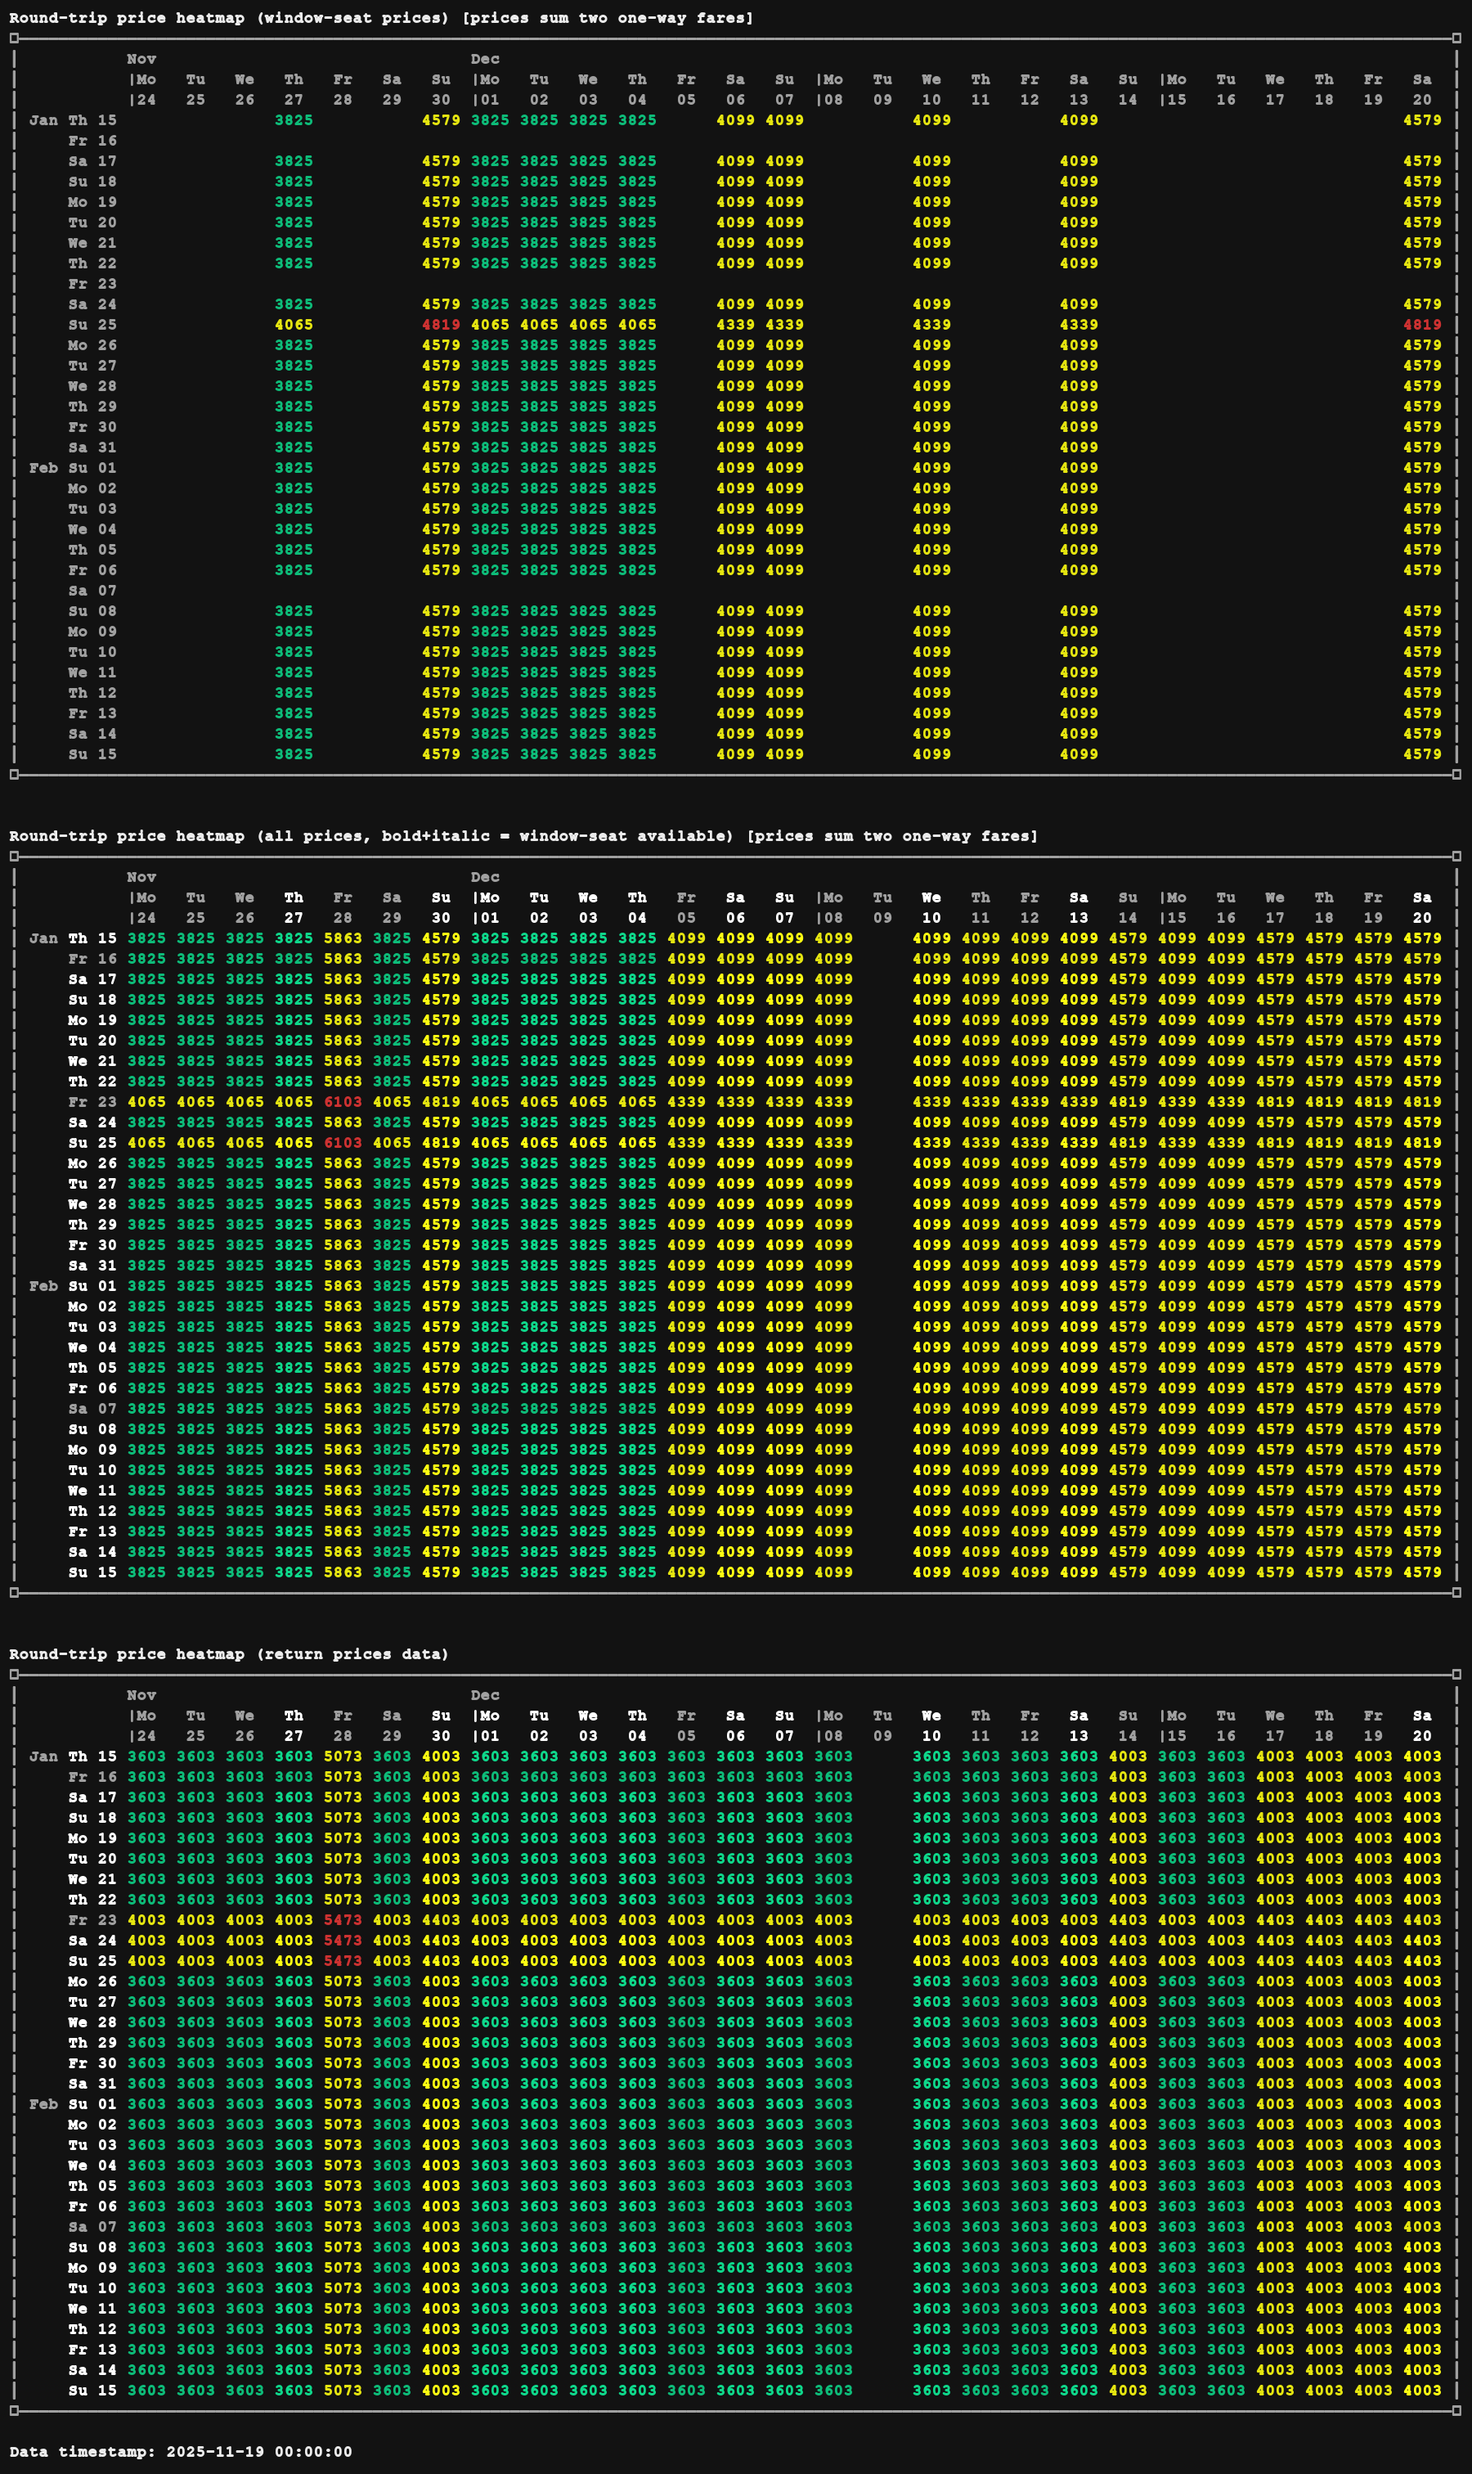
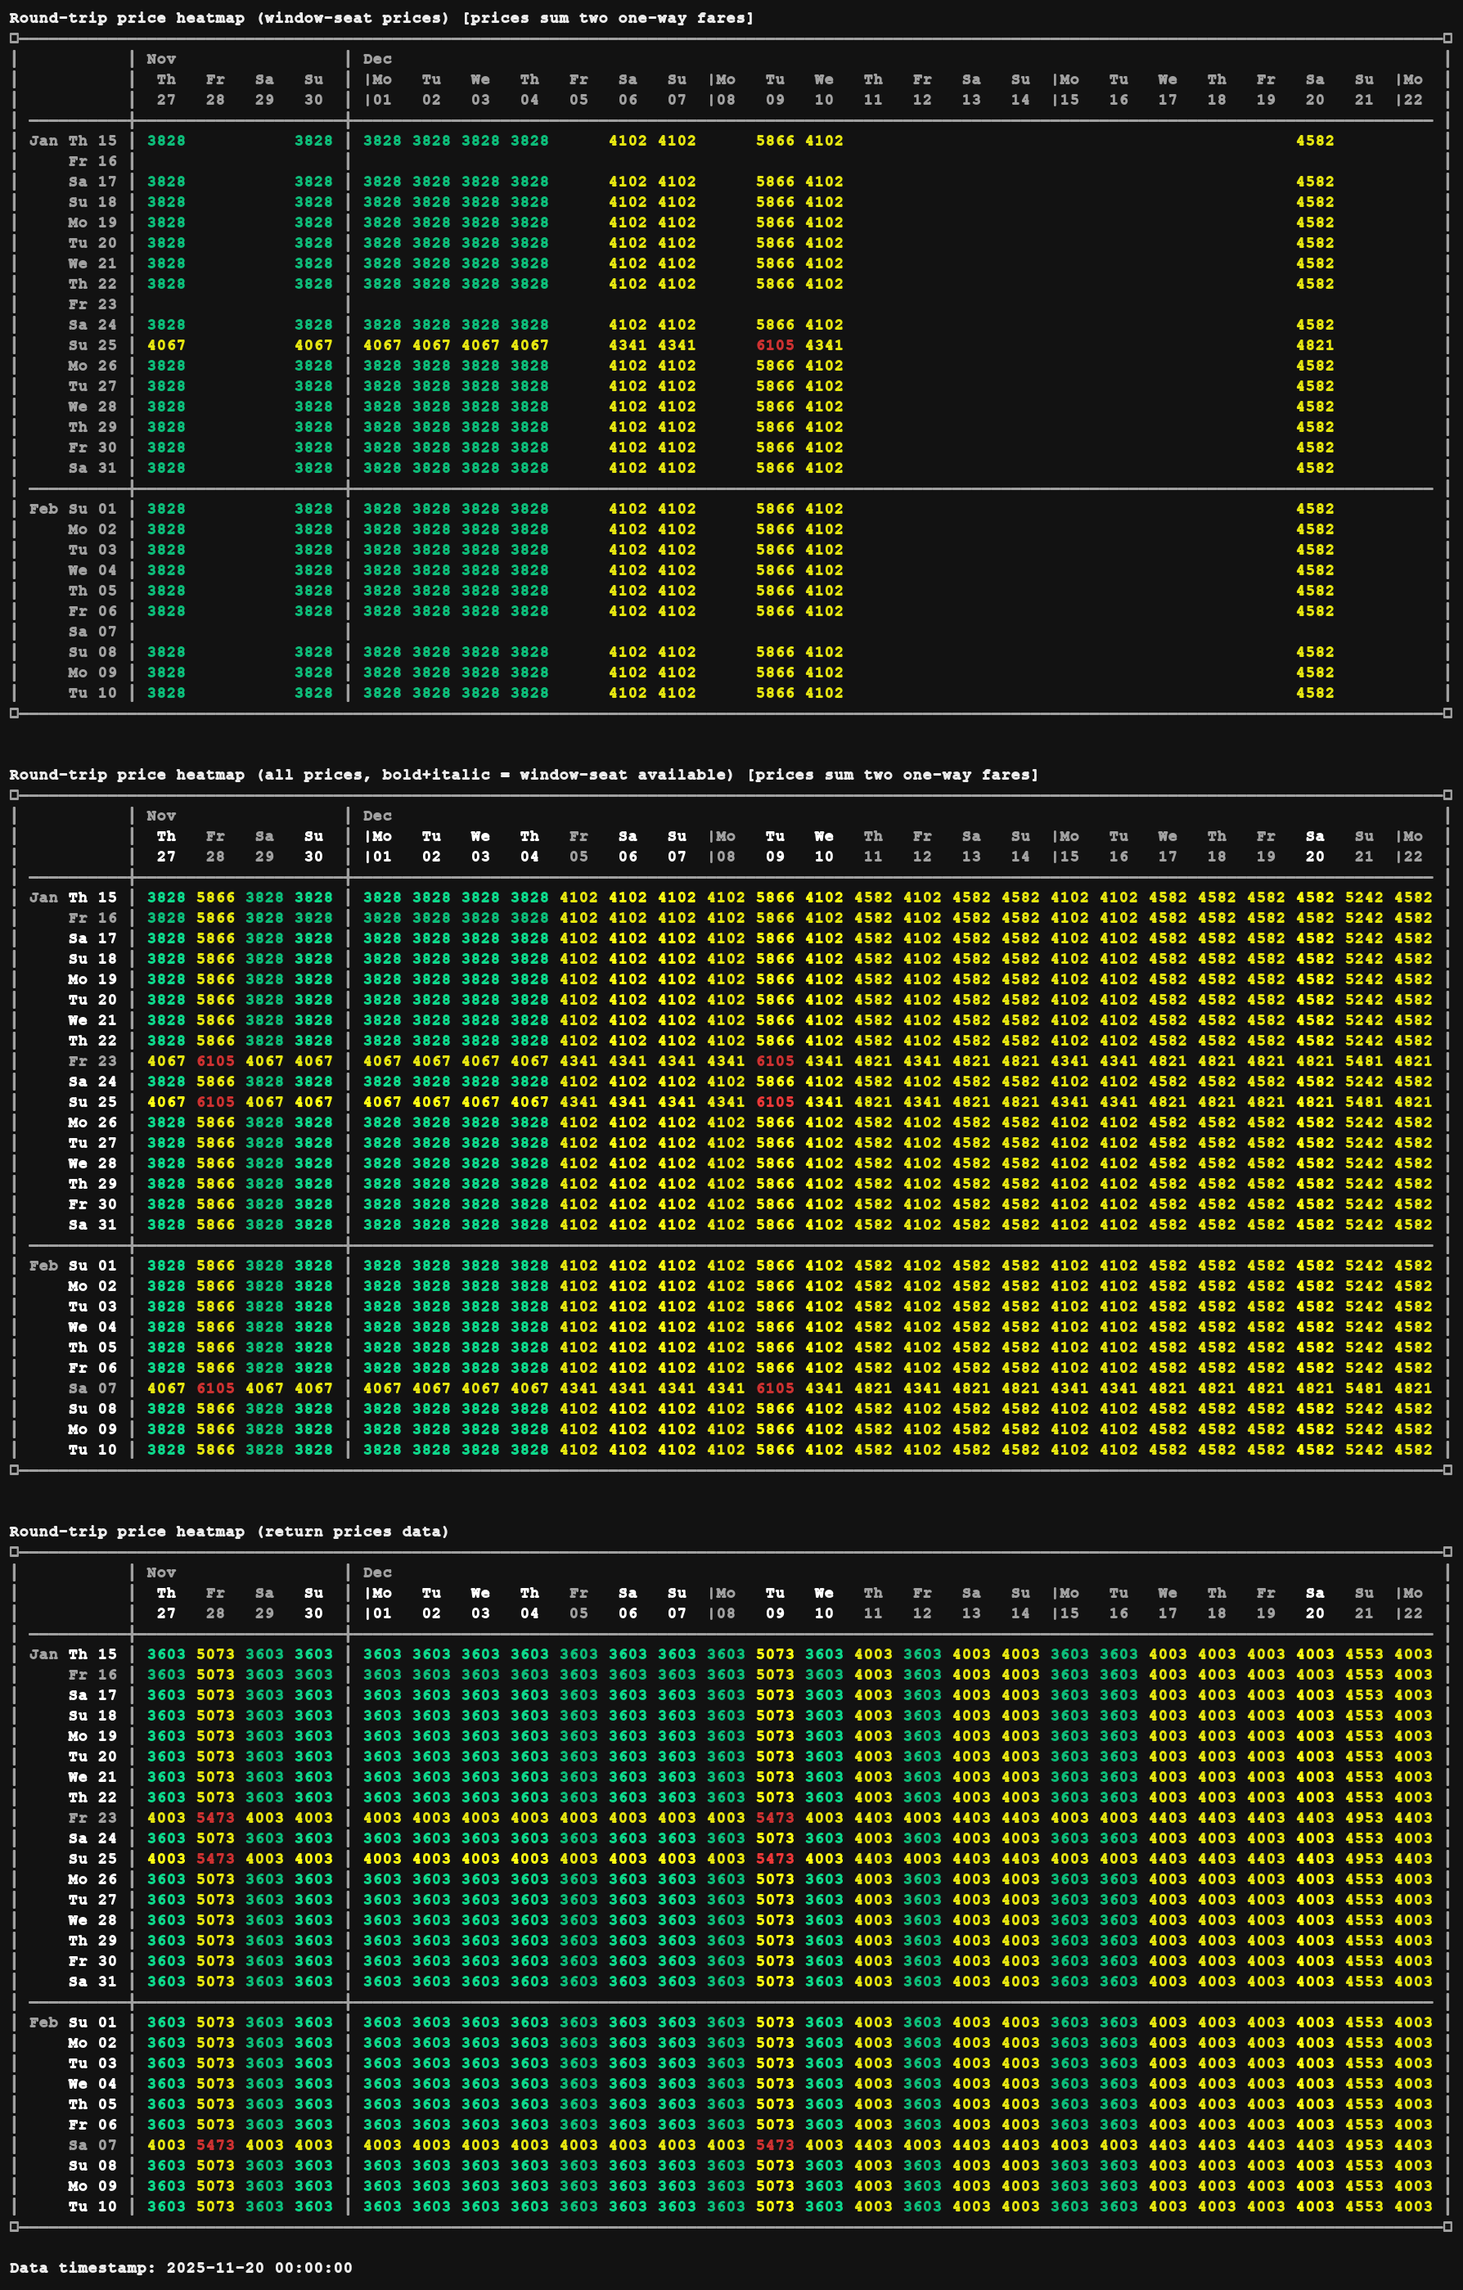
optimize output renderings

Changed region(s): [[0.0, 0.0, 0.9843, 0.9946]]

diff --git a/flight_search.py b/flight_search.py
@@ -41,6 +41,7 @@ from config import (
     SEATMAP_OUTPUT_STYLE,
     SHOW_SEATMAP_PRICE,
     STATIC_LABELS,
+    HEATMAP_HEADER_COLOR,
     TRAVEL_WINDOWS,
 )
 from colors import apply as apply_color, resolve as resolve_color, ANSI_RESET as COLORS_ANSI_RESET
@@ -1064,6 +1065,14 @@ def format_roundtrip_price_heatmap(
         else:
             column_months.append('')
 
+    column_split_indices: set[int] = set()
+    previous_column_month: int | None = None
+    for idx, entry in enumerate(outbound_axis):
+        month_value = entry.date_obj.month
+        if previous_column_month is not None and month_value != previous_column_month:
+            column_split_indices.add(idx)
+        previous_column_month = month_value
+
     row_months: list[str] = []
     previous_row_month: str | None = None
     for entry in return_axis:
@@ -1073,6 +1082,14 @@ def format_roundtrip_price_heatmap(
             previous_row_month = month_str
         else:
             row_months.append('')
+
+    row_split_indices: set[int] = set()
+    previous_row_month_value: int | None = None
+    for idx, entry in enumerate(return_axis):
+        month_value = entry.date_obj.month
+        if previous_row_month_value is not None and month_value != previous_row_month_value:
+            row_split_indices.add(idx)
+        previous_row_month_value = month_value
 
     cell_width_candidates = [display_width(cell) for row in rendered_rows for cell in row]
     cell_width_candidates.extend(display_width(label) for label in column_labels)
@@ -1095,20 +1112,48 @@ def format_roundtrip_price_heatmap(
     )
     suffix = "[prices sum two one-way fares]" if show_price_sum_suffix else ""
     title_line = f"{title or default_title} {suffix}".strip()
+
+    separator_color = HEATMAP_HEADER_COLOR
+
+    def paint_separator(text: str) -> str:
+        return apply_color(separator_color, text) if separator_color else text
+
+    row_header_separator = paint_separator('│')
+    vertical_separator = paint_separator('│')
+
+    def build_separator_line() -> str:
+        parts: list[str] = [
+            '─' * max(1, row_month_width),
+            '─' * max(1, row_label_width),
+            '┼',
+        ]
+        for col_idx in range(len(outbound_axis)):
+            if col_idx in column_split_indices:
+                parts.append('┼')
+            parts.append('─' * max(1, cell_width))
+        colored_parts = [paint_separator(part) for part in parts]
+        joiner = paint_separator('─')
+        return joiner.join(colored_parts)
+
     content_lines: list[str] = []
     if column_labels:
         left_padding_cells = [
             pad_to_width('', row_month_width),
             pad_to_width('', row_label_width),
+            row_header_separator,
         ]
         year_cells = left_padding_cells[:]
-        for axis_entry, label in zip(outbound_axis, column_months):
+        for idx, (axis_entry, label) in enumerate(zip(outbound_axis, column_months)):
+            if idx in column_split_indices:
+                year_cells.append(vertical_separator)
             styled_label = style_header_label(label, available=axis_entry.has_window, allow_highlight=False)
             year_cells.append(pad_to_width_centered(styled_label, cell_width))
         content_lines.append(' '.join(year_cells))
 
         weekday_cells = left_padding_cells[:]
-        for axis_entry, label in zip(outbound_axis, column_weekdays):
+        for idx, (axis_entry, label) in enumerate(zip(outbound_axis, column_weekdays)):
+            if idx in column_split_indices:
+                weekday_cells.append(vertical_separator)
             styled_label = style_header_label(label, available=axis_entry.has_window)
             if label.startswith('|'):
                 weekday_cells.append(pad_to_width(styled_label, cell_width))
@@ -1119,20 +1164,45 @@ def format_roundtrip_price_heatmap(
         date_cells = [
             pad_to_width(row_month_header, row_month_width),
             pad_to_width(row_label_header, row_label_width),
+            row_header_separator,
         ]
-        for axis_entry, label in zip(outbound_axis, column_labels):
+        for idx, (axis_entry, label) in enumerate(zip(outbound_axis, column_labels)):
+            if idx in column_split_indices:
+                date_cells.append(vertical_separator)
             styled_label = style_header_label(label, available=axis_entry.has_window)
             date_cells.append(pad_to_width_centered(styled_label, cell_width))
         content_lines.append(' '.join(date_cells))
+        content_lines.append(build_separator_line())
 
-    for axis_entry, month_label, label, row_cells in zip(return_axis, row_months, row_labels, rendered_rows):
+    horizontal_separator = paint_separator(pad_to_width('─' * max(1, row_month_width), row_month_width))
+    horizontal_label_separator = paint_separator(pad_to_width('─' * max(1, row_label_width), row_label_width))
+    data_separator_cell = paint_separator(pad_to_width('─' * max(1, cell_width), cell_width))
+    cross_separator = paint_separator('┼')
+
+    for row_idx, (axis_entry, month_label, label, row_cells) in enumerate(zip(return_axis, row_months, row_labels, rendered_rows)):
+        if row_idx in row_split_indices:
+            separator_line_parts = [
+                horizontal_separator,
+                horizontal_label_separator,
+                cross_separator,
+            ]
+            for col_idx in range(len(outbound_axis)):
+                if col_idx in column_split_indices:
+                    separator_line_parts.append(cross_separator)
+                separator_line_parts.append(data_separator_cell)
+            separator_joiner = paint_separator('─')
+            content_lines.append(separator_joiner.join(separator_line_parts))
         styled_month = style_header_label(month_label, available=axis_entry.has_window, allow_highlight=False)
         styled_label = style_header_label(label, available=axis_entry.has_window)
         row_line = [
             pad_to_width(styled_month, row_month_width),
             pad_to_width(styled_label, row_label_width),
+            row_header_separator,
         ]
-        row_line.extend(pad_to_width(cell, cell_width) for cell in row_cells)
+        for col_idx, cell in enumerate(row_cells):
+            if col_idx in column_split_indices:
+                row_line.append(vertical_separator)
+            row_line.append(pad_to_width(cell, cell_width))
         content_lines.append(' '.join(row_line))
 
     content_width = max((display_width(line) for line in content_lines), default=0)
@@ -1264,6 +1334,7 @@ def print_weekly_layout(
     if max_width == 0 or max_height == 0:
         return
 
+    week_row_width = (max_width * 7) + (2 * 6)
     sorted_dates = sorted(datetime.strptime(key, '%Y%m%d') for key in seatmaps_by_date.keys())
     start_date = sorted_dates[0] - timedelta(days=sorted_dates[0].weekday())
     end_date = sorted_dates[-1] + timedelta(days=(6 - sorted_dates[-1].weekday()))
@@ -1319,7 +1390,12 @@ def print_weekly_layout(
                     print(line)
                 print()
                 previous_route_label = route_label
-            print(apply_bold_italic(month_label))
+            styled_month = apply_bold_italic(month_label)
+            underline_width = max(week_row_width, display_width(styled_month))
+            underline = apply_color(HEATMAP_HEADER_COLOR, '─' * underline_width) if underline_width > 0 else ''
+            print(styled_month)
+            if underline:
+                print(underline)
             print()
             previous_month_key = month_key
 
